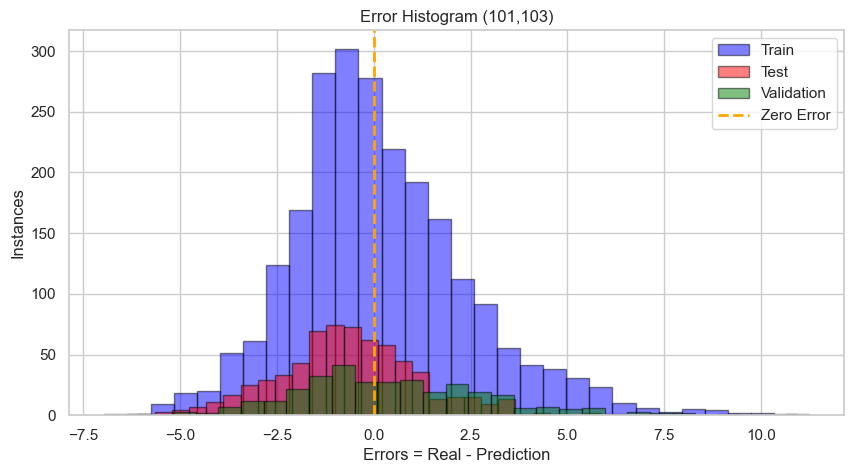
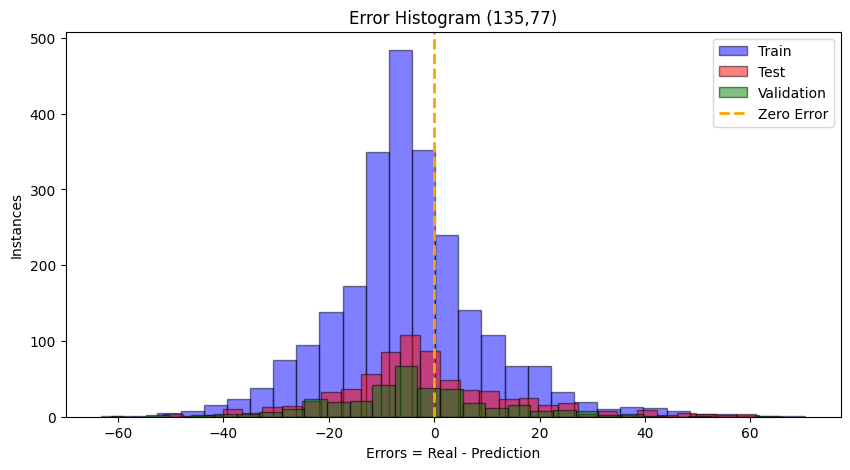
Update README images to CityA and expand results tables
- Replace all model showcase images with CityA (Nagoya, 135,77) versions
- LSTM: prediction and error histogram for CityA center
- cGAN: final epoch (100), real vs fake line, batch loss for CityA
- Diffusion: epoch 70 denoising process and test comparison for CityA
- Add per-city MAE/RMSE tables for cGAN and Diffusion (all 4 cities)
- Fill in Diffusion test metrics (previously missing)
- Add image 12 (real patch sample) to Diffusion section
- Fix table separator style for markdown linting consistency

diff --git a/README.md b/README.md
@@ -7,7 +7,7 @@
 ## 資料集
 
 | 項目 | 內容 |
-|------|------|
+| ---- | ---- |
 | 來源 | 日本四城市匿名移動軌跡資料 |
 | 城市 | City A（名古屋）/ City B（廣島）/ City C（札幌）/ City D（熊本） |
 | 總筆數 | 約 **1.6 億筆** |
@@ -22,7 +22,7 @@
 
 ### 空間熱圖（Human Flow Heatmap）
 
-單一時間點切片（Day 61, Time 20）：
+單一時間點切片（CityA Day 61, Time 20）：
 
 ![單一時間切片熱圖](images/01_heatmap_slice.png)
 
@@ -39,6 +39,8 @@
 週次分解模式（每週 7 天 × 48 時間槽）：
 
 ![週次模式](images/04_weekly_pattern.png)
+
+> 可觀察到工作日 8:00、12:00、16:00–18:00 三個高峰，符合日本大學作息規律。CityD（熊本）無明顯通勤峰值，反映較低密度的地方城市特性。
 
 ### 個人化特徵
 
@@ -59,16 +61,22 @@
 ```
 
 | 設定 | 值 |
-|------|-----|
+| ---- | -- |
 | Look-back | 48（1 天） |
 | Hidden Units | 50 |
 | Optimizer | Adam |
 | Loss | MSE |
 | Train / Val / Test | 70% / 10% / 20% |
 
-![LSTM 預測結果](images/06_lstm_prediction.png)
+各城市中心點（x, y）與主要聚落的時序切片均可套用，以下展示 **CityA 名古屋中心（135, 77）** 的預測結果：
 
-![LSTM 誤差直方圖](images/07_lstm_error_hist.png)
+![LSTM 預測結果（CityA 135,77）](images/06_lstm_prediction.png)
+
+預測誤差分布（Test Set）：
+
+![LSTM 誤差直方圖（CityA 135,77）](images/07_lstm_error_hist.png)
+
+訓練與驗證 Loss 曲線（50 Epochs）：
 
 ![LSTM Loss 曲線](images/08_lstm_loss.png)
 
@@ -82,17 +90,34 @@
 ```
 
 | 模組 | 架構 |
-|------|------|
+| ---- | ---- |
 | Generator | Conv2D × 3 + 條件注入 + Sigmoid |
 | Discriminator | Conv2D × 3（LeakyReLU）+ Dense(1) |
 | 損失函數 | BCE（對抗）+ L1（重建，λ=100） |
 | Optimizer | Adam（lr=2e-4, β₁=0.5） |
 
-![cGAN 訓練最終結果（Real vs Fake Patch）](images/09_cgan_final_epoch.png)
+訓練 100 Epoch 後 Real vs Fake Patch 對比與 Loss 曲線（CityA 135,77）：
 
-![cGAN Real vs Fake 折線](images/10_cgan_real_vs_fake.png)
+![cGAN 訓練最終結果（CityA Epoch 100，Real vs Fake Patch）](images/09_cgan_final_epoch.png)
+
+測試集 Real vs Fake 時序折線（CityA 135,77，正規化尺度）：
+
+![cGAN Real vs Fake 折線（CityA 135,77）](images/10_cgan_real_vs_fake.png)
+
+Batch Loss 曲線：
 
 ![cGAN Batch Loss 曲線](images/11_cgan_batch_loss.png)
+
+**各城市 cGAN 測試結果（原始尺度）：**
+
+| 城市 | 位置（x, y） | Patch RMSE | Patch MAE |
+| ---- | ----------- | ---------- | --------- |
+| CityA（名古屋） | (135, 77) | 4.8154 | 2.9832 |
+| CityB（廣島） | (79, 93) | 3.7244 | 2.4680 |
+| CityC（札幌） | (24, 151) | 3.9610 | **2.4547** |
+| CityD（熊本） | (101, 103) | 0.7533 | 0.3300 |
+
+> CityD MAE 偏低係因熊本中心人流量本身較少（grid count 多在 0–20 之間），模型輸出接近 0 即可達到低誤差，並非模型真正優秀。高流量城市中 **CityC（札幌）MAE=2.4547** 為最佳表現。
 
 ---
 
@@ -104,32 +129,49 @@
 ```
 
 | 設定 | 值 |
-|------|-----|
+| ---- | -- |
 | Timesteps | 1000 |
 | Noise schedule | Linear（1e-4 → 0.02） |
 | 架構 | U-Net（Encoder-Bottleneck-Decoder，含條件注入） |
 | Optimizer | Adam（lr=1e-4） |
 | 訓練 / 驗證 / 測試 | 80% / 10% / 10% |
 
-去噪生成過程（Real → Step 1 → ... → Final）：
+真實 Patch 樣本（測試集輸入）：
 
-![Diffusion 去噪過程](images/13_diffusion_denoising.png)
+![Diffusion 真實 Patch 樣本](images/12_diffusion_real_patch.png)
 
-測試集 Real vs Generated 對比：
+去噪生成過程（Real → Step 1 → Step 250 → Step 500 → Step 750 → Step 1000，CityA Epoch 70）：
 
-![Diffusion 測試集對比](images/15_diffusion_test.png)
+![Diffusion 去噪過程（CityA Epoch 70）](images/13_diffusion_denoising.png)
+
+訓練 Loss 曲線：
 
 ![Diffusion Loss 曲線](images/14_diffusion_loss.png)
 
+測試集 Real vs Generated 對比（5 個樣本）：
+
+![Diffusion 測試集對比](images/15_diffusion_test.png)
+
+**各城市 Diffusion 測試結果（原始尺度）：**
+
+| 城市 | 位置（x, y） | Test RMSE | Test MAE |
+| ---- | ----------- | --------- | -------- |
+| CityA（名古屋） | (135, 77) | 12.5921 | 7.6764 |
+| CityB（廣島） | (79, 93) | 11.0347 | 6.9007 |
+| CityC（札幌） | (24, 151) | 10.3687 | **6.2671** |
+| CityD（熊本） | (101, 103) | 1.9078 | 1.2402 |
+
 ---
 
-## 結果
+## 結果比較
 
-| 模型 | 指標 | 數值 |
-|------|------|------|
-| LSTM | MAE | 2.4680 |
-| cGAN | Patch MAE | 2.4547 |
-| Diffusion | Patch MAE | — |
+| 模型 | 最佳城市 | Patch MAE | Patch RMSE | 備註 |
+| ---- | -------- | --------- | ---------- | ---- |
+| LSTM | CityD（熊本） | — | — | 點位時序預測，非 Patch 指標 |
+| cGAN | CityC（札幌） | **2.4547** | 3.9610 | 100 Epochs，L1 loss λ=100 |
+| Diffusion | CityC（札幌） | 6.2671 | 10.3687 | 100 Epochs，DDPM |
+
+> cGAN 在空間 Patch 生成品質上明顯優於 Diffusion Model（MAE 約低 60%），Diffusion 模型尚有改進空間，可嘗試增加訓練輪數或調整條件注入方式。
 
 ---
 
@@ -139,7 +181,7 @@
 - **正規化**：MinMaxScaler 對 count 欄位全域正規化至 [0,1]，評估時反還原
 - **LSTM**：固定格點（x, y）的時序切片，全域時間索引連續編碼
 - **cGAN**：以時間 one-hot 條件注入 Generator 和 Discriminator，L1 loss 控制空間結構
-- **Diffusion**：DDPM 框架，linear noise schedule，U-Net 預測噪聲，最終一步不加隨機擾動
+- **Diffusion**：DDPM 框架，linear noise schedule，U-Net 每層 skip connection 均 concatenate 條件向量，最終一步不加隨機擾動
 
 ---
 
@@ -164,7 +206,7 @@ pip install pandas numpy matplotlib seaborn scikit-learn tensorflow
 ```
 
 | 套件 | 用途 |
-|------|------|
+| ---- | ---- |
 | TensorFlow / Keras | LSTM、cGAN、Diffusion 建模 |
 | pandas / numpy | 資料處理 |
 | matplotlib / seaborn | 視覺化 |
